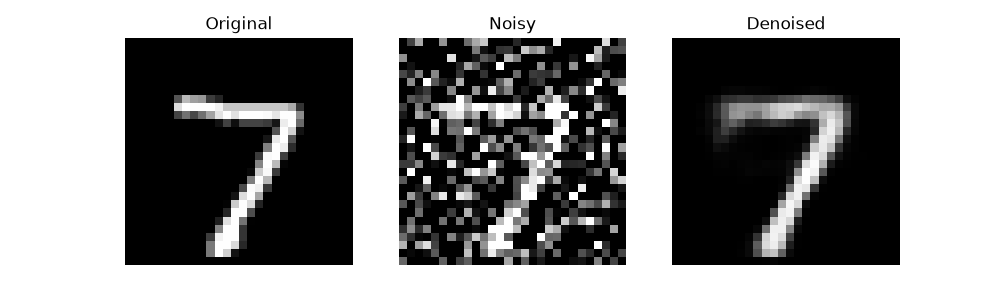
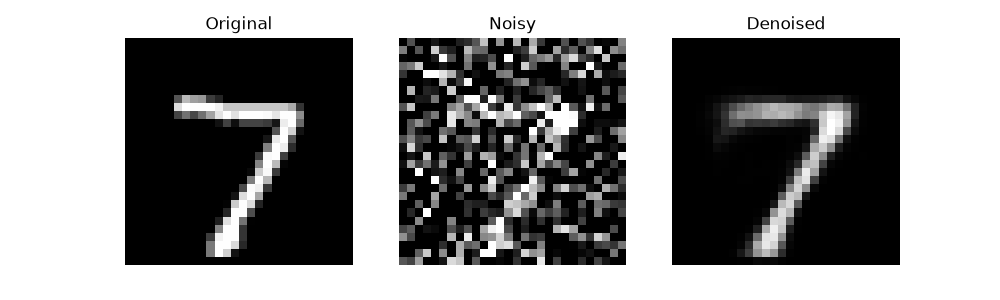
Update predict.py to save output image

Changed region(s): [[0.372, 0.12, 0.651, 0.9], [0.744, 0.48, 0.837, 0.87], [0.713, 0.3, 0.868, 0.45]]

diff --git a/predict.py b/predict.py
@@ -56,4 +56,5 @@ plt.imshow(denoised, cmap="gray")
 plt.title("Denoised")
 plt.axis("off")
 
-plt.show()
+plt.savefig("assets/result.png")
+print("Prediction image saved in assets/result.png")